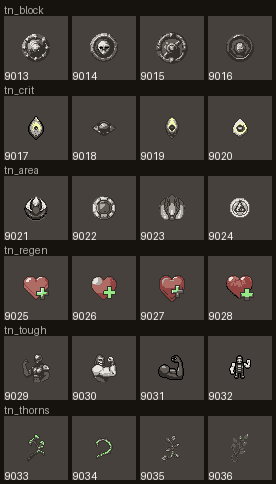
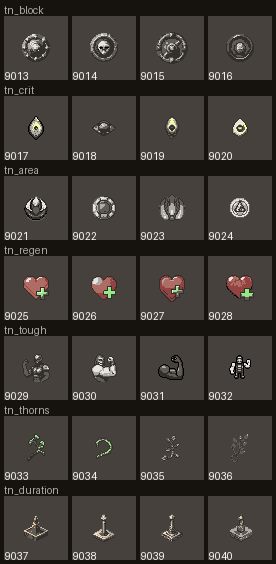
M2-36 D2 補跑：第 9 列（挑圖用）
Claude-Session: https://claude.ai/code/session_01LdUmBLLbZ3qo2BnEdyLSAK

diff --git a/art/_tmp/m2-36-d2-rerun/results.md b/art/_tmp/m2-36-d2-rerun/results.md
@@ -20,7 +20,7 @@
 | 6 | `tn_regen` | 4 | 4 | 0 | 4 |
 | 7 | `tn_tough` | 4 | 4 | 0 | 4 |
 | 8 | `tn_thorns` | 4 | 4 | 0 | 4 |
-| 9 | `tn_duration` | 4 | 0 | 0 | 0 |
+| 9 | `tn_duration` | 4 | 4 | 0 | 4 |
 | 10 | `ts_phys` | 4 | 0 | 0 | 0 |
 | 11 | `ts_light` | 4 | 0 | 0 | 0 |
 | 12 | `ts_chaos` | 4 | 0 | 0 | 0 |
@@ -42,7 +42,7 @@
 | 28 | `cur_pcalam` | 3 | 0 | 0 | 0 |
 | 29 | `cur_ink` | 3 | 0 | 0 | 0 |
 | 30 | `plq_corner` | 3 | 0 | 0 | 0 |
-| 合計 | | 111 | 35 | 1 | 26 |
+| 合計 | | 111 | 39 | 1 | 30 |
 
 ## 牆
 
@@ -92,10 +92,10 @@
 | 8 | `tn_thorns` | 9034 | 成功 | 原圖 ΔE>3 0%；最大 ΔE 0.0；放大圖 否；禁色 0；不透明 16%；半透明(原圖) 0；C*>40 18%；C* 上限 25%；本批別組最大 IoU 0.44（只回報） | ✅ |
 | 8 | `tn_thorns` | 9035 | 成功 | 原圖 ΔE>3 0%；最大 ΔE 0.0；放大圖 否；禁色 0；不透明 19%；半透明(原圖) 0；C*>40 1%；C* 上限 25%；本批別組最大 IoU 0.43（只回報） | ✅ |
 | 8 | `tn_thorns` | 9036 | 成功 | 原圖 ΔE>3 0%；最大 ΔE 0.0；放大圖 否；禁色 0；不透明 15%；半透明(原圖) 0；C*>40 1%；C* 上限 25%；本批別組最大 IoU 0.32（只回報） | ✅ |
-| 9 | `tn_duration` | 9037 | 未送出 | — | — |
-| 9 | `tn_duration` | 9038 | 未送出 | — | — |
-| 9 | `tn_duration` | 9039 | 未送出 | — | — |
-| 9 | `tn_duration` | 9040 | 未送出 | — | — |
+| 9 | `tn_duration` | 9037 | 成功 | 原圖 ΔE>3 0%；最大 ΔE 0.0；放大圖 否；禁色 0；不透明 30%；半透明(原圖) 0；C*>40 0%；C* 上限 25%；本批別組最大 IoU 0.63（只回報） | ✅ |
+| 9 | `tn_duration` | 9038 | 成功 | 原圖 ΔE>3 0%；最大 ΔE 0.0；放大圖 否；禁色 0；不透明 25%；半透明(原圖) 0；C*>40 0%；C* 上限 25%；本批別組最大 IoU 0.50（只回報） | ✅ |
+| 9 | `tn_duration` | 9039 | 成功 | 原圖 ΔE>3 0%；最大 ΔE 0.0；放大圖 否；禁色 0；不透明 25%；半透明(原圖) 0；C*>40 0%；C* 上限 25%；本批別組最大 IoU 0.51（只回報） | ✅ |
+| 9 | `tn_duration` | 9040 | 成功 | 原圖 ΔE>3 0%；最大 ΔE 0.0；放大圖 否；禁色 0；不透明 31%；半透明(原圖) 0；C*>40 0%；C* 上限 25%；本批別組最大 IoU 0.65（只回報） | ✅ |
 | 10 | `ts_phys` | 9041 | 未送出 | — | — |
 | 10 | `ts_phys` | 9042 | 未送出 | — | — |
 | 10 | `ts_phys` | 9043 | 未送出 | — | — |
